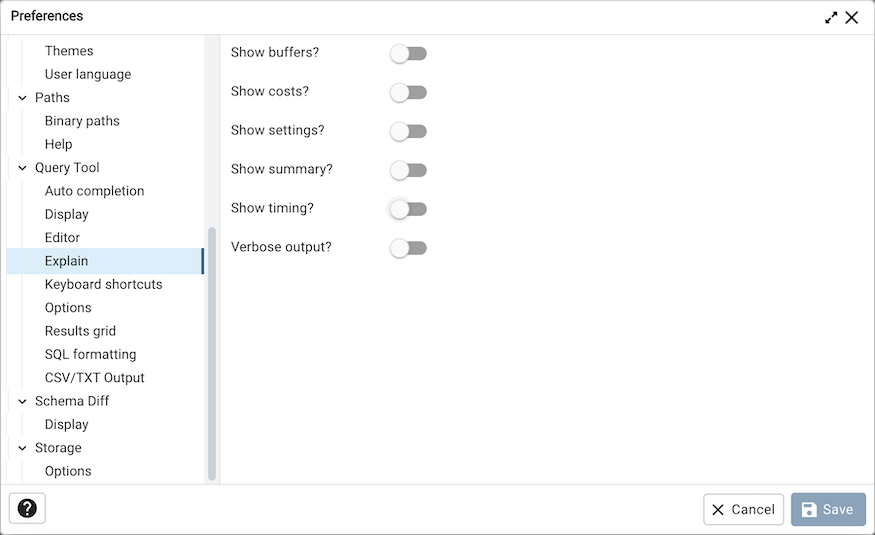
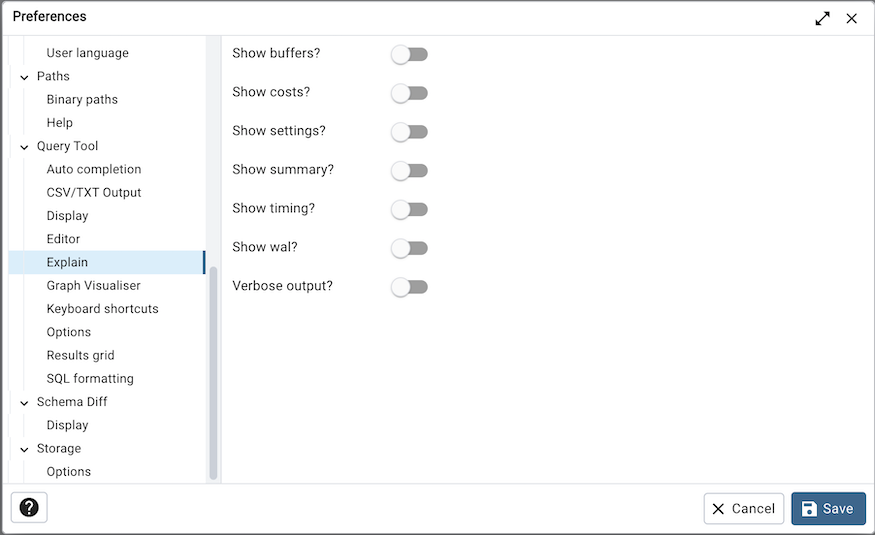
Added WAL option to EXPLAIN ANALYZE command. #6382

diff --git a/web/pgadmin/tools/sqleditor/static/js/components/sections/MainToolBar.jsx b/web/pgadmin/tools/sqleditor/static/js/components/sections/MainToolBar.jsx
@@ -185,6 +185,7 @@ export function MainToolBar({containerRef, onFilterClick, onManageMacros}) {
       timing: analyze ? Boolean(checkedMenuItems['explain_timing']) : false,
       summary: Boolean(checkedMenuItems['explain_summary']),
       settings: Boolean(checkedMenuItems['explain_settings']),
+      wal: analyze ? Boolean(checkedMenuItems['explain_wal']) : false,
     });
   }, [checkedMenuItems]);
 
@@ -381,6 +382,7 @@ export function MainToolBar({containerRef, onFilterClick, onManageMacros}) {
           explain_timing: queryToolPref.explain_timing,
           explain_summary: queryToolPref.explain_summary,
           explain_settings: queryToolPref.explain_settings,
+          explain_wal: queryToolPref.explain_wal,
         });
       }
     }
@@ -623,6 +625,8 @@ export function MainToolBar({containerRef, onFilterClick, onManageMacros}) {
           onClick={checkMenuClick}>{gettext('Summary')}</PgMenuItem>
         <PgMenuItem hasCheck value="explain_settings" checked={checkedMenuItems['explain_settings']}
           onClick={checkMenuClick}>{gettext('Settings')}</PgMenuItem>
+        <PgMenuItem hasCheck value="explain_wal" checked={checkedMenuItems['explain_wal']}
+          onClick={checkMenuClick}>{gettext('Wal')}</PgMenuItem>
       </PgMenu>
       <PgMenu
         anchorRef={macrosMenuRef}

diff --git a/web/pgadmin/tools/sqleditor/tests/test_explain_plan_templates.py b/web/pgadmin/tools/sqleditor/tests/test_explain_plan_templates.py
@@ -61,6 +61,28 @@ class TestExplainPlanTemplates(BaseTestGenerator):
                                       'SELECT * FROM places'
             )
         ),
+        (
+            'When rendering Postgres 13 template, '
+            'when wal is present,'
+            'it returns the explain plan with wal',
+            dict(
+                template_path='sqleditor/sql/13_plus/explain_plan.sql',
+                input_parameters=dict(
+                    sql='SELECT * FROM places',
+                    format='json',
+                    buffers=False,
+                    timing=False,
+                    summary=False,
+                    wal=True
+                ),
+                sql_statement='SELECT * FROM places',
+                expected_return_value='EXPLAIN '
+                                      '(FORMAT JSON, TIMING false, '
+                                      'BUFFERS false, SUMMARY false, '
+                                      'WAL true) '
+                                      'SELECT * FROM places'
+            )
+        ),
     ]
 
     def setUp(self):

diff --git a/web/pgadmin/tools/sqleditor/utils/query_tool_preferences.py b/web/pgadmin/tools/sqleditor/utils/query_tool_preferences.py
@@ -55,6 +55,12 @@ def register_query_tool_preferences(self):
         category_label=PREF_LABEL_EXPLAIN
     )
 
+    self.explain_wal = self.preference.register(
+        'Explain', 'explain_wal',
+        gettext("Show wal?"), 'boolean', False,
+        category_label=PREF_LABEL_EXPLAIN
+    )
+
     self.auto_commit = self.preference.register(
         'Options', 'auto_commit',
         gettext("Auto commit?"), 'boolean', True,

diff --git a/docs/en_US/release_notes_7_6.rst b/docs/en_US/release_notes_7_6.rst
@@ -24,6 +24,7 @@ New features
   | `Issue #6375 <https://github.com/pgadmin-org/pgadmin4/issues/6375>`_ -  Added support for ALTER INDEX column statistics.
   | `Issue #6376 <https://github.com/pgadmin-org/pgadmin4/issues/6376>`_ -  Added unlogged option while creating a sequence.
   | `Issue #6381 <https://github.com/pgadmin-org/pgadmin4/issues/6381>`_ -  Added support for SYSTEM, CONCURRENTLY and TABLESPACE options in REINDEX.
+  | `Issue #6382 <https://github.com/pgadmin-org/pgadmin4/issues/6382>`_ -  Added WAL option to EXPLAIN ANALYZE command.
   | `Issue #6397 <https://github.com/pgadmin-org/pgadmin4/issues/6397>`_ -  Added new/missing options to the VACUUM command.
   | `Issue #6415 <https://github.com/pgadmin-org/pgadmin4/issues/6415>`_ -  Added SKIP_LOCKED and BUFFER_USAGE_LIMIT option to Analyze command.
   | `Issue #6448 <https://github.com/pgadmin-org/pgadmin4/issues/6448>`_ -  Add support for TRUNCATE trigger in foreign table.
@@ -37,6 +38,6 @@ Bug fixes
 *********
 
   | `Issue #5454 <https://github.com/pgadmin-org/pgadmin4/issues/5454>`_ -  Fix incorrect redirection URL after authentication by removing fixed value set to SCRIPT_NAME environment variable in pgAdmin4.wsgi file.
-  | `Issue #6500 <https://github.com/pgadmin-org/pgadmin4/issues/6500>`_ -  Fix the issue where query tool window turns blank if the user tries to generate a graph on the result.
   | `Issue #6252 <https://github.com/pgadmin-org/pgadmin4/issues/6252>`_ -  Fix an issue where query tool on shared server is throwing error if the pgAdmin config DB is external.
+  | `Issue #6500 <https://github.com/pgadmin-org/pgadmin4/issues/6500>`_ -  Fix the issue where query tool window turns blank if the user tries to generate a graph on the result.
   | `Issue #6624 <https://github.com/pgadmin-org/pgadmin4/issues/6624>`_ -  Fix an issue where changing MFA_SUPPORTED_METHODS breaks the MFA validation.

diff --git a/docs/en_US/preferences.rst b/docs/en_US/preferences.rst
@@ -396,15 +396,24 @@ Use the fields on the *Editor* panel to change settings of the query editor.
 Use the fields on the *Explain* panel to specify the level of detail included in
 a graphical EXPLAIN.
 
-* When the *Show Buffers?* switch is set to *True*, graphical explain details
+* When the *Show buffers?* switch is set to *True*, graphical explain details
   will include information about buffer usage.
 
-* When the *Show Costs?* switch is set to *True*, graphical explain details will
+* When the *Show costs?* switch is set to *True*, graphical explain details will
   include information about the estimated startup and total cost of each plan,
   as well as the estimated number of rows and the estimated width of each row.
 
-* When the *Show Timing?* switch is set to *True*, graphical explain details
+* When the *Show settings?* switch is set to *True*, graphical explain details
+  will include the information on the configuration parameters.
+
+* When the *Show summary?* switch is set to *True*, graphical explain details
+  will include the summary information about the query plan.
+
+* When the *Show timing?* switch is set to *True*, graphical explain details
   will include the startup time and time spent in each node in the output.
+
+* When the *Show wal?* switch is set to *True*, graphical explain details
+  will include the information on WAL record generation.
 
 * When the *Verbose output?* switch is set to *True*, graphical explain details
   will include extended information about the query execution plan.

diff --git a/docs/en_US/query_tool_toolbar.rst b/docs/en_US/query_tool_toolbar.rst
@@ -146,6 +146,10 @@ Query Execution
    |                      |    spent in each node of the query.                                                               |                |
    |                      |                                                                                                   |                |
    |                      |  * Select *Summary* to include the summary information about the query plan.                      |                |
+   |                      |                                                                                                   |                |
+   |                      |  * Select *Settings* to include the information on the configuration parameters.                  |                |
+   |                      |                                                                                                   |                |
+   |                      |  * Select *Wal* to include the information on WAL record generation.                              |                |
    +----------------------+---------------------------------------------------------------------------------------------------+----------------+
    | *Commit*             | Click the *Commit* icon to commit the transaction.                                                | Shift+CTRL+M   |
    +----------------------+---------------------------------------------------------------------------------------------------+----------------+
